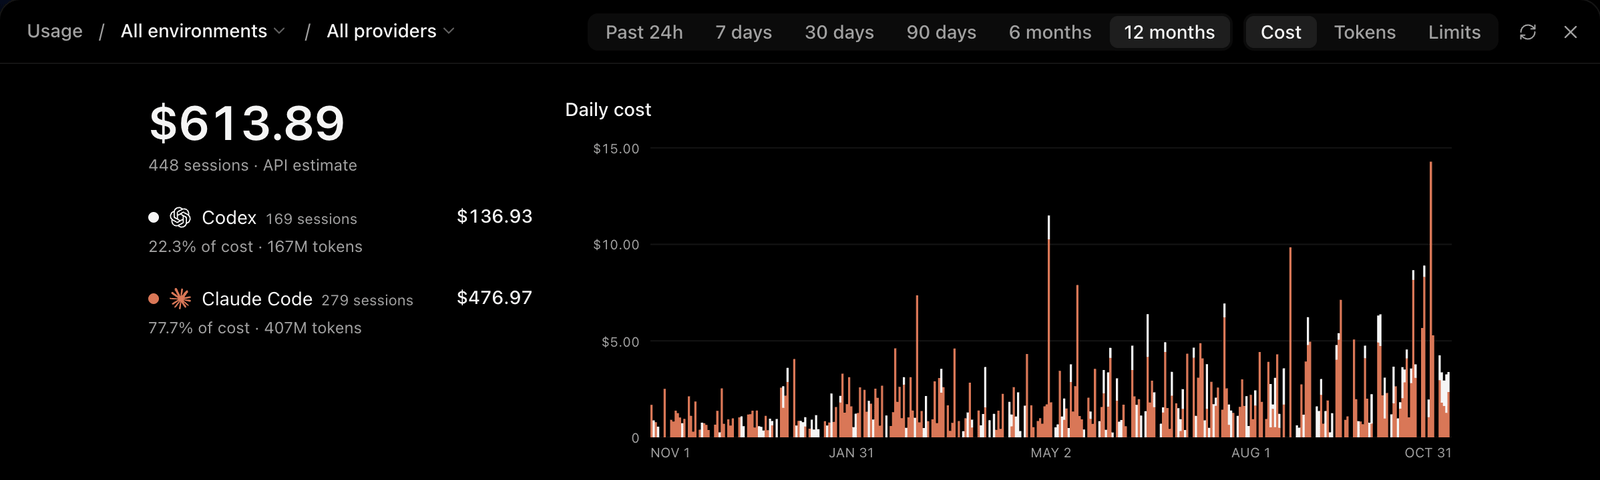
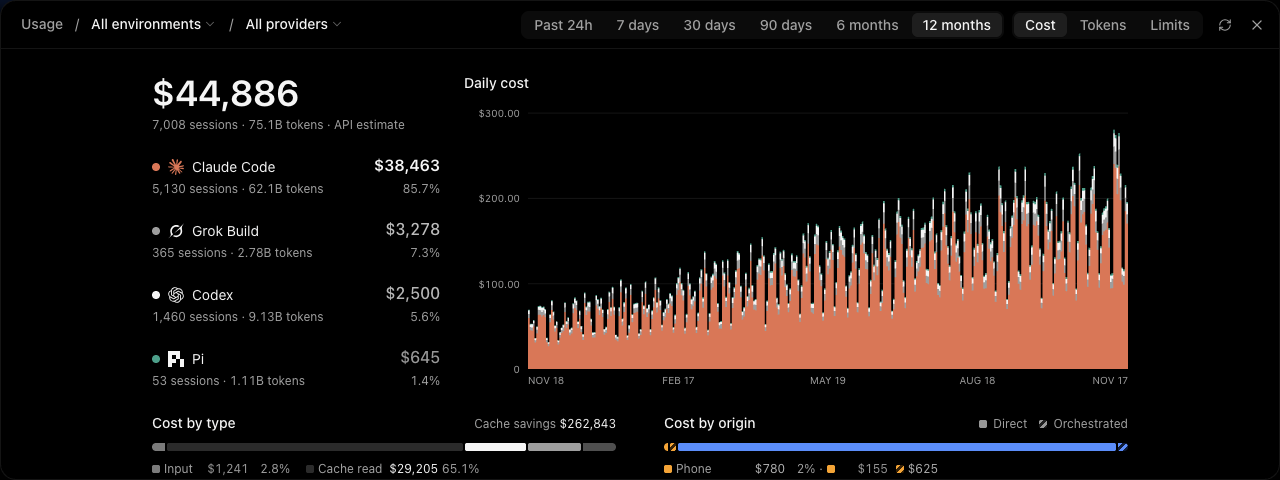
docs(fork): describe the usage page's new figures, with fresh pictures
The fork README's usage sections described and pictured the page before
its Totals row went and its provider rows changed.

Adds a section on what the Tokens and Cost tabs now do and which parts a
sync must carry forward, drops "the totals" from the muted-rows section,
and adds the root README line. The three usage pictures are retaken from a
dev server reading a made-up home folder, so every figure in them is
invented.

diff --git a/fork/README.md b/fork/README.md
@@ -44,7 +44,7 @@ Four things are still shared with the official app:
 
 ## Usage reaches twelve months
 
-![The Usage page's 12 months view: a year of daily cost as stacked bars, split by Codex and Claude Code](media/usage-12-months.png)
+![The Usage page's 12 months view: a year of daily cost as stacked bars, split by Claude Code, Grok Build, Codex and Pi](media/usage-12-months.png)
 
 The Usage page on web and desktop has 6 months (`Cmd+Shift+5`) and 12 months
 (`Cmd+Shift+6`) periods. Every period draws one stacked bar per day or hour,
@@ -69,13 +69,13 @@ at the top (`apps/web/src/components/usage/UsagePage.tsx`).
 
 ## Usage rows can be muted
 
-![The Usage page with Codex and Grok Build muted and grayed out, leaving Claude Code alone in the headline, chart and totals](media/usage-provider-filter.png)
+![The Usage page with Grok Build and Codex muted and grayed out, leaving Claude Code and Pi in the headline, the chart and the bars under it](media/usage-provider-filter.png)
 
 On the Usage page, click a provider's dot, icon or name to mute it; click again
 to bring it back. The row looks like plain text until you hover it. Muting grays
 the row and leaves it in the list, showing what that provider would have added.
 Everything else drops it: the headline, the other rows' shares, the chart, the
-totals, the by-type bars and the breakdown. Rows follow upstream's order by the
+by-type bars and the breakdown. Rows follow upstream's order by the
 selected metric (cost or tokens); a muted row ranks by what it would have added,
 so muting it does not move it.
 
@@ -86,6 +86,51 @@ adds: `excludedProviders` in `apps/web/src/state/usage.ts` and the rows in
 `apps/web/src/components/usage/UsagePage.tsx`. Upstream's filter also hides a
 provider's Limits cards, so a row muted here hides them too. The mobile app
 has no row toggles.
+
+## Usage figures line up and fade by size
+
+![The Usage page's Tokens tab: a headline with sessions and a dollar total, four provider rows whose counts fade from 1.93B down to 32.3M, a chart as tall as the provider list, and Tokens by type and Tokens by origin with their figures in columns](media/usage-figures.png)
+
+The captain reads the Usage page for where the tokens went, so the Tokens and
+Cost tabs on web and desktop put the figures he compares where the eye can
+compare them:
+
+- **No Totals row.** Upstream's row of five totals repeats the type bar. Cache
+  savings moves beside the **Cost by type** heading.
+- **The other figure rides along.** Under the headline the Tokens tab shows the
+  sessions and the dollar total, and the Cost tab the sessions and the token
+  total. A provider's row shows the tab's figure one size up, then its sessions
+  and the other figure, with its share at the right under the figure.
+- **Figures fade by size.** The largest figure in a group is at full strength,
+  the smallest at 70%, and the rest are placed between by order of magnitude,
+  so billions stand apart from millions. On provider rows a figure in the top
+  fifth of that scale is bold; in the captain's words, "if it's in a league of
+  its own, then it should be separated from the others". The scale never spans
+  less than one order of magnitude, so three providers of similar size all stay
+  bold rather than being stretched apart.
+- **Figures sit in columns.** Tokens by type, Cost by type and Cost by speed
+  print each part's share and set the parts two to a line, in the order Input,
+  Cache read, Output, Cache write, so every M and B, percent sign and colour
+  square is directly above its like. A fifth part (Other, on Cost by type)
+  follows the second line where it fits. Tokens by origin sets its figures in
+  columns too.
+- **The chart is as tall as the provider list.** With four or more providers
+  the bars stretch so the chart ends level with the last row. It is never
+  shorter than upstream's.
+- **Whole dollars from $100.** The page's standing dollar figures drop cents
+  from $100 up (`formatUsdShort`). The chart's tooltip and a model's pop-up
+  keep cents.
+
+The mobile app keeps upstream's layout. A model's pop-up uses the same bars,
+so its legends take the columns, shares and fade too.
+
+For syncs, the fork's parts are: the provider rows, the headline's second line
+and the missing Totals section in
+`apps/web/src/components/usage/UsagePage.tsx`; the legend in
+`UsageShareBar.tsx` and the segment order in `usageBreakdown.ts`; the legend
+in `UsageOriginBreakdown.tsx`; `min-h-56 flex-1` in place of upstream's fixed
+`h-56` in `UsageProviderChart.tsx`; the scale in `usageEmphasis.ts`; and
+`formatUsdShort` in `packages/shared/src/usageFormat.ts`.
 
 ## Usage accounts follow the providers tab
 

diff --git a/README.md b/README.md
@@ -30,6 +30,7 @@ Also:
 - [Board](fork/README.md#board): a tab to sketch on screenshots and attach them to the chat.
 - [Twelve months of usage](fork/README.md#usage-reaches-twelve-months): longer periods, drawn as stacked bars.
 - [Muted usage rows](fork/README.md#usage-rows-can-be-muted): click a provider on the Usage page to mute it.
+- [Usage figures](fork/README.md#usage-figures-line-up-and-fade-by-size): shares and aligned columns on the Usage page, and the big numbers stand out.
 - [Usage in the sidebar](fork/README.md#usage-limits-in-the-sidebar): one bar per account shows what is left this week.
 - [Archived usage](fork/README.md#archived-usage): counts machines that no longer run T3.
 - [Usage export](fork/README.md#usage-export): `t3 usage export` prints each model call as T3 counted it, as JSON lines.
